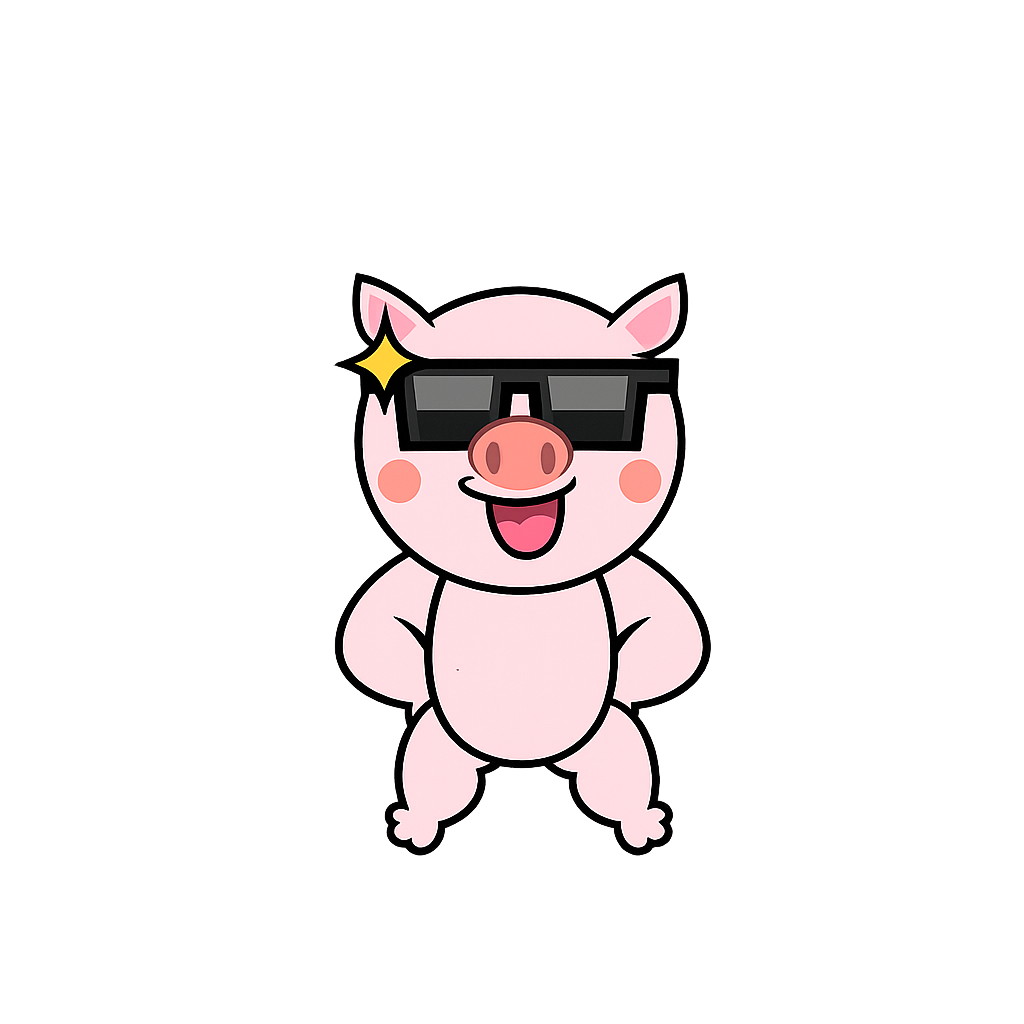
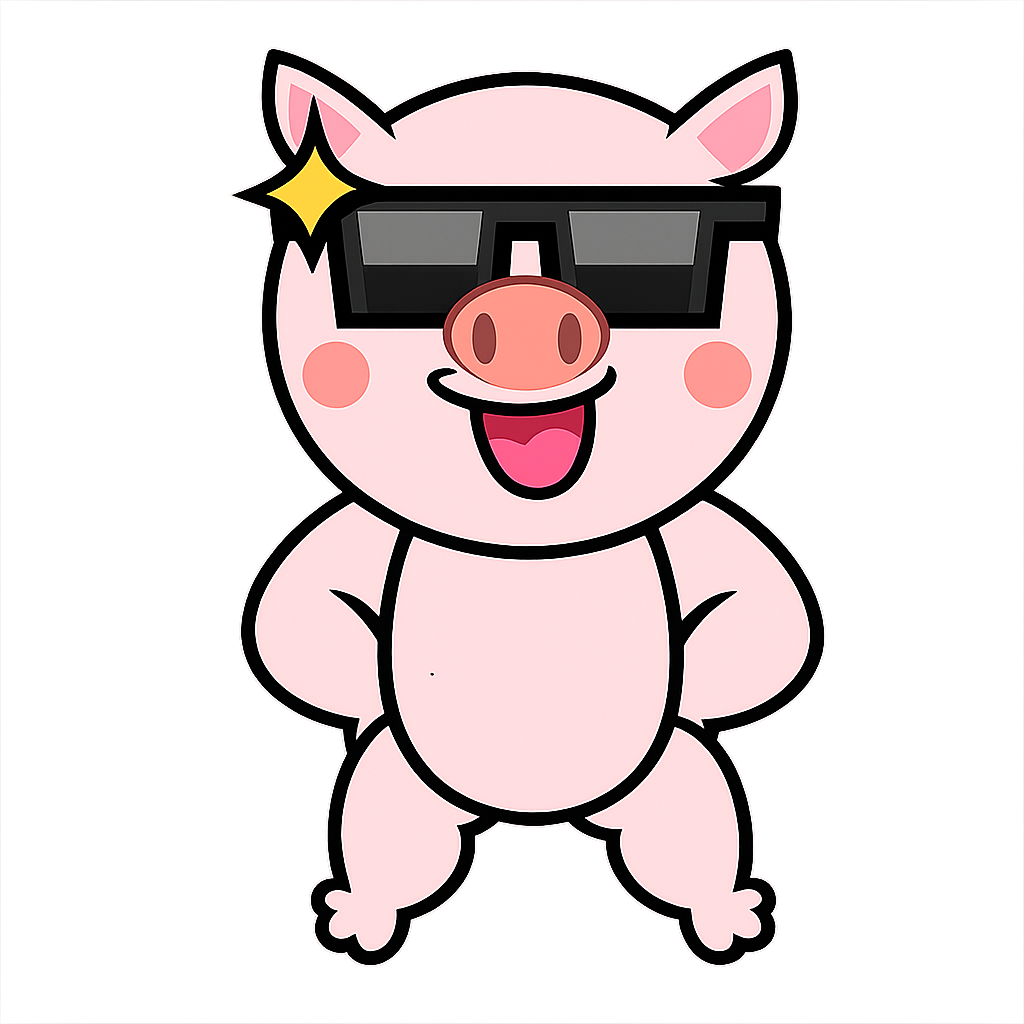
fix19

diff --git a/src/app/dashboard/page.tsx b/src/app/dashboard/page.tsx
@@ -1,7 +1,7 @@
 "use client";
 
-import { useState, useEffect, useCallback } from "react";
-import { useRouter } from "next/navigation";
+import { useState, useEffect, useCallback, Suspense } from "react";
+import { useRouter, useSearchParams } from "next/navigation";
 import Image from "next/image";
 import { format, addDays, subDays, startOfDay } from "date-fns";
 import { ja } from "date-fns/locale";
@@ -27,9 +27,16 @@ const MOTIVATION_MESSAGES = [
   "目標に向かって、今日も一緒に頑張ろう🎯",
 ];
 
-export default function DashboardPage() {
+function DashboardContent() {
   const router = useRouter();
-  const [selectedDate, setSelectedDate] = useState(startOfDay(new Date()));
+  const searchParams = useSearchParams();
+
+  // URLパラメータ ?date=YYYY-MM-DD から初期日付を取得
+  const dateParam = searchParams.get("date");
+  const [selectedDate, setSelectedDate] = useState<Date>(() =>
+    dateParam ? startOfDay(new Date(dateParam)) : startOfDay(new Date())
+  );
+
   const [data, setData] = useState<DashboardData | null>(null);
   const [sideMenuOpen, setSideMenuOpen] = useState(false);
   const [message] = useState(
@@ -47,10 +54,10 @@ export default function DashboardPage() {
     fetchDashboard(selectedDate);
   }, [selectedDate, fetchDashboard]);
 
-  const weekDays = Array.from({ length: 7 }, (_, i) => {
-    const d = addDays(subDays(new Date(), 3), i);
-    return d;
-  });
+  // 週ストリップを selectedDate 中心に表示（常に today 固定ではなく）
+  const weekDays = Array.from({ length: 7 }, (_, i) =>
+    addDays(subDays(selectedDate, 3), i)
+  );
 
   const caloriePct = data
     ? Math.min(100, (data.today.totalCalories / data.goal.dailyCalorieTarget) * 100)
@@ -85,7 +92,7 @@ export default function DashboardPage() {
           <div className="w-8" />
         </div>
 
-        {/* Week Strip */}
+        {/* Week Strip — selectedDate を中心に表示 */}
         <div className="flex justify-between gap-1">
           {weekDays.map((d) => {
             const isSelected =
@@ -174,8 +181,8 @@ export default function DashboardPage() {
             <div className="grid grid-cols-3 gap-2 mt-3 pt-3 border-t border-pink-50 text-center">
               {[
                 { label: "たんぱく質", val: data.today.totalCalories > 0 ? "記録済" : "-" },
-                { label: "脂質", val: data.today.totalCalories > 0 ? "記録済" : "-" },
-                { label: "炭水化物", val: data.today.totalCalories > 0 ? "記録済" : "-" },
+                { label: "脂質",       val: data.today.totalCalories > 0 ? "記録済" : "-" },
+                { label: "炭水化物",   val: data.today.totalCalories > 0 ? "記録済" : "-" },
               ].map((n) => (
                 <div key={n.label}>
                   <p className="text-xs text-gray-400">{n.label}</p>
@@ -189,11 +196,11 @@ export default function DashboardPage() {
         {/* Meal Cards */}
         <div className="grid grid-cols-2 gap-3">
           {[
-            { type: "body", label: "カラダ記録", emoji: "⚖", path: "/body-record", goal: null },
-            { type: "breakfast", label: "朝食", emoji: "🌅", path: "/meal/breakfast", goal: data?.goal.breakfastCalories },
-            { type: "lunch", label: "昼食", emoji: "☀", path: "/meal/lunch", goal: data?.goal.lunchCalories },
-            { type: "dinner", label: "夕食", emoji: "🌙", path: "/meal/dinner", goal: data?.goal.dinnerCalories },
-            { type: "snack", label: "間食", emoji: "🍪", path: "/meal/snack", goal: data?.goal.snackCalories },
+            { type: "body",      label: "カラダ記録", emoji: "⚖",  path: "/body-record",   goal: null },
+            { type: "breakfast", label: "朝食",       emoji: "🌅",  path: "/meal/breakfast", goal: data?.goal.breakfastCalories },
+            { type: "lunch",     label: "昼食",       emoji: "☀",  path: "/meal/lunch",     goal: data?.goal.lunchCalories },
+            { type: "dinner",    label: "夕食",       emoji: "🌙",  path: "/meal/dinner",    goal: data?.goal.dinnerCalories },
+            { type: "snack",     label: "間食",       emoji: "🍪",  path: "/meal/snack",     goal: data?.goal.snackCalories },
           ].map((card) => {
             const isBodyCard = card.type === "body";
             const eaten = !isBodyCard ? data?.today.meals[card.type] ?? 0 : null;
@@ -261,5 +268,17 @@ export default function DashboardPage() {
         )}
       </main>
     </div>
+  );
+}
+
+export default function DashboardPage() {
+  return (
+    <Suspense fallback={
+      <div className="flex items-center justify-center min-h-svh">
+        <p className="text-gray-400 text-sm">読み込み中...</p>
+      </div>
+    }>
+      <DashboardContent />
+    </Suspense>
   );
 }
